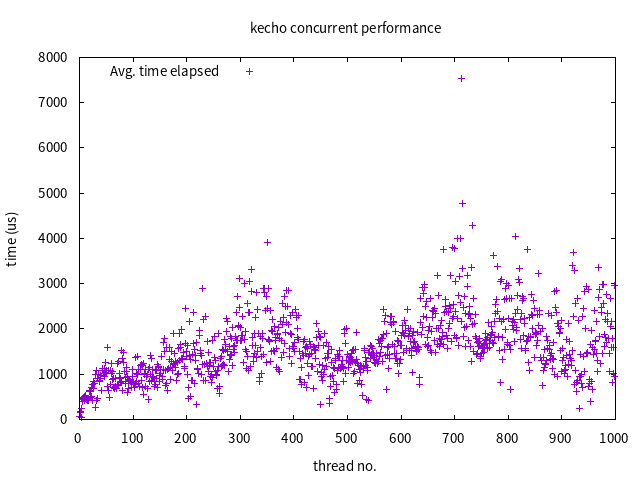
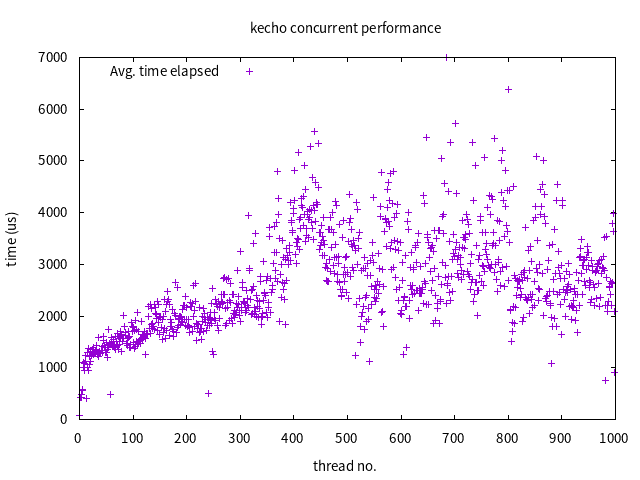
Modify number of buffer array

diff --git a/echo_server.c b/echo_server.c
@@ -91,7 +91,7 @@ static void echo_server_worker(struct work_struct *work)
             }
             break;
         }
-        buf[res - 1] = '\0';
+        buf[res] = '\0';
 
         res = send_request(worker->sock, buf, res);
         if (res < 0) {
